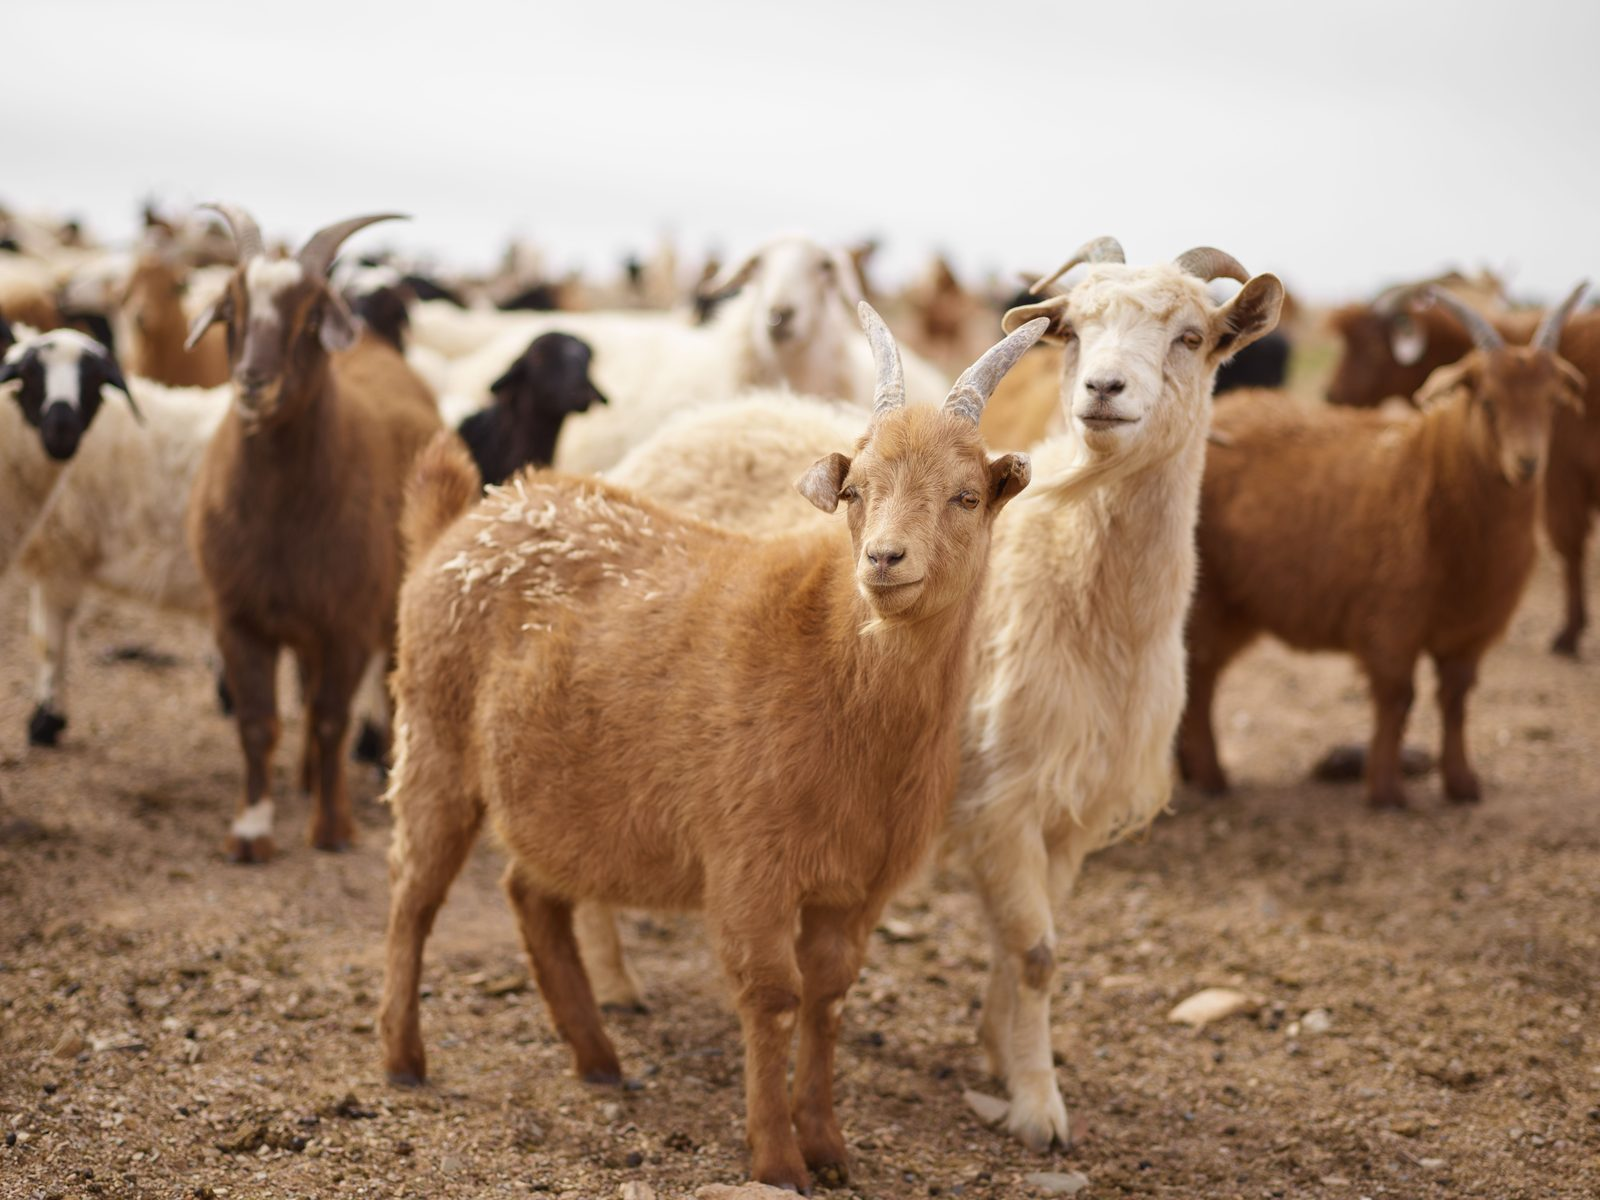
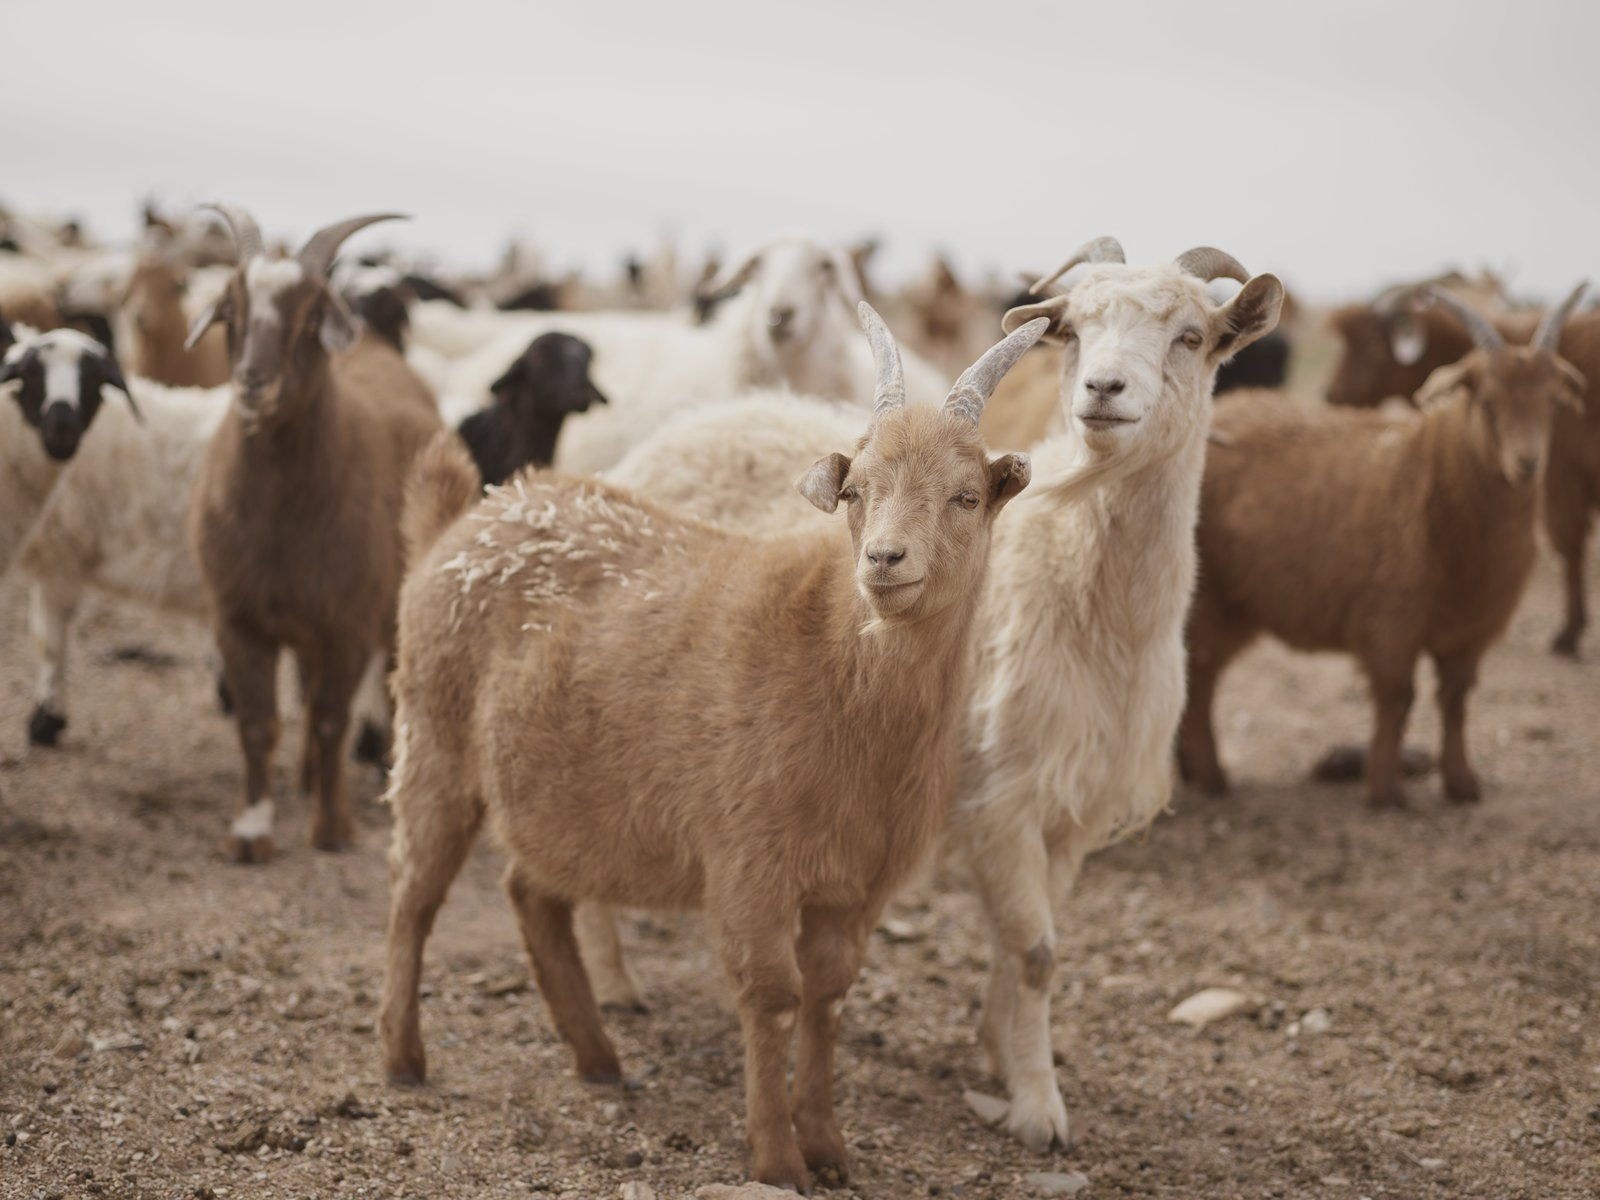
M26: fotos de Mongolia con un mismo tratamiento de color y la ger recortada para el celular
- origen/yak.jpg, cabras.jpg y camellos.jpg con gradar_banco: menos saturación, el pasto verde al caqui
  de la estepa, negros mate y luces hasta L*91. Más livianas que las anteriores, en sRGB con perfil.
  Van junto con quitar el filtro saturate() de .capitulo__marco img (M27), si no se desaturan dos veces.
- origen/ger-amanecer-movil.jpg (nuevo): recorte de 1200x1799 desde x=1026, el mismo centro que muestra
  hoy object-position 80%. Lo usa M36. ger-amanecer.jpg no cambia.
- docs/LICENCIAS-FOTOS.md: los cambios hechos, el muro de estudio y la regla de color.
El punto 3 (sacar public/historia, perros.png y los SVG) ya va en el commit 179af64.

diff --git a/docs/LICENCIAS-FOTOS.md b/docs/LICENCIAS-FOTOS.md
@@ -1,15 +1,16 @@
 # Licencias de las fotos de ambiente (Mongolia)
 
-Estas cuatro fotos están en `public/origen/` y se usan solo como ambiente en el inicio (sección Origen y capítulos de las fibras).
+Estas fotos están en `public/origen/` y se usan solo como ambiente en el inicio (sección Origen y capítulos de las fibras).
 No son fotos de Nirün: ningún texto del sitio puede decir que muestran a los pastores, los animales o la producción de Nirün.
 
-Las dos licencias (Pexels License y Unsplash License) permiten uso comercial gratis y no exigen atribución.
+Las dos licencias (Pexels License y Unsplash License) permiten uso comercial gratis, permiten modificar las fotos y no exigen atribución.
 Los originales están en `Escritorio\Nirun fotos Mongolia gratis\` junto con `LICENCIAS.csv`, de donde sale esta tabla.
 Las copias del sitio se redimensionaron (2400 px de lado largo el paisaje, 1600 px los animales), JPEG calidad 82 y sin metadatos.
 
 | Archivo en el sitio | Archivo original | Fuente | Autor | URL |
 |---|---|---|---|---|
 | `public/origen/ger-amanecer.jpg` | `ger-solitaria-amanecer-pexels-arthouse-studio.jpg` | Pexels | ArtHouse Studio | https://www.pexels.com/photo/lonely-mongolian-yurt-in-countryside-during-sunrise-4321589/ |
+| `public/origen/ger-amanecer-movil.jpg` | la misma de la ger (recorte) | Pexels | ArtHouse Studio | https://www.pexels.com/photo/lonely-mongolian-yurt-in-countryside-during-sunrise-4321589/ |
 | `public/origen/yak.jpg` | `yak-pastando-unsplash-munkhuu.jpg` | Unsplash | Munkhuu | https://unsplash.com/photos/Df3flYKLXRQ |
 | `public/origen/cabras.jpg` | `cabras-rebano-estepa-pexels-arthouse-studio.jpg` | Pexels | ArtHouse Studio | https://www.pexels.com/photo/herd-of-domestic-goats-on-pasture-4321308/ |
 | `public/origen/camellos.jpg` | `camellos-bactrianos-manada-pexels-arthouse-studio.jpg` | Pexels | ArtHouse Studio | https://www.pexels.com/photo/herd-of-bactrian-camels-of-different-colors-in-desert-area-4321182/ |
@@ -19,6 +20,24 @@ Las copias del sitio se redimensionaron (2400 px de lado largo el paisaje, 1600 
 - Foto de las cabras: la página de Pexels no indica el país. Se asumió Mongolia porque es del mismo autor y serie que otras fotos de cabras con pastor mongol. Por eso el pie de foto dice solo "Cabras de cachemira", sin lugar. Conviene verificarlo antes de ponerle un rótulo de país.
 - Foto del yak: Unsplash la etiqueta como "Mongolian Yak", pero no indica la ubicación exacta.
 - El pie de foto "Mongolia" bajo el paisaje de la ger es solo ambiente; no afirma que sea una ger de Nirün ni de sus proveedores.
+
+## Cambios hechos a las fotos (noviembre de 2026)
+
+- Las fotos de los animales (`yak.jpg`, `cabras.jpg`, `camellos.jpg`) llevan el mismo tratamiento de color para que se vean como una sola serie. Tienen menos saturación y el pasto verde pasó al caqui de la estepa. Los negros quedaron mate y las luces ya no llegan al blanco del papel. Con estas fotos se quita el filtro CSS que les bajaba la saturación; si quedara, se desaturarían dos veces.
+- `ger-amanecer.jpg` no cambió de color. `ger-amanecer-movil.jpg` es un recorte vertical de esa misma foto (1200 x 1799 px, desde x = 1026), con la ger en el mismo lugar que se ve hoy en el celular. Así el celular no descarga la foto entera de 2400 px.
+- Los dos cambios se hicieron con `scripts/tratar_fotos.py`, a partir de las copias del commit 35c2086.
+- Se sacaron de `public/` las fotos antiguas sin licencia de `public/historia/` (una tenía el logo de otra marca) y `perros.png`. También los SVG de la plantilla de Next. `public/instagram/` tampoco va en el repositorio.
+
+## Fotos de las prendas (sesión de estudio)
+
+Son fotos propias de Nirün (`public/hero/` y `public/fibers/`). En noviembre de 2026 el muro gris del estudio, que se veía lila, pasó a gris cálido. Solo cambiaron los grises con tinte lila: el color de las prendas quedó igual (diferencia media menor a 1 ΔE, medida dentro de cada prenda). Algún accesorio de la producción con tono lila, como el pañuelo celeste o la cartera de cocodrilo, puede verse un poco más cálido en las sombras. Las portadas de Nomín negro (`_84A6395.jpg`) y Sernaí Silk (`_84A5995.jpg`) se recortaron un poco para sacar la junta oscura del muro del borde de arriba. La portada de playa de Nomín azul oscuro solo bajó el cielo quemado.
+
+## Regla de color
+
+- Toda foto nueva, recortada o armada se exporta en sRGB con su perfil incrustado. Algunas fotos de estudio llegaron en Adobe RGB (las del hero, Záya y Sernaí Silk): recortadas sin convertir, los colores se apagan.
+- Para eso están `abrir_srgb` y `guardar_jpg` en `scripts/fotos_color.py`. Los scripts usan Python 3 con Pillow y numpy (`pip install pillow numpy`).
+- Las imágenes para compartir (`public/og/`) se hacen con `python scripts/generar_og.py`. Cada prenda tiene un tríptico de 1200 x 630 px con su portada al centro, y el inicio usa las tres fotos del hero. Si se agrega una prenda en `app/products.ts`, se suma en `PRENDAS` y se vuelve a correr. Mientras no exista su imagen, la ficha usa la del inicio.
+- Antes de cada deploy con fotos, correr `python scripts/revisar_fotos.py`. Falla si una foto trae otro perfil (Adobe RGB, P3) o si un JPG nuevo viene sin perfil. También falla si en `public/` queda algo que no sea .jpg o .png.
 
 ## Fuentes tipográficas
 
